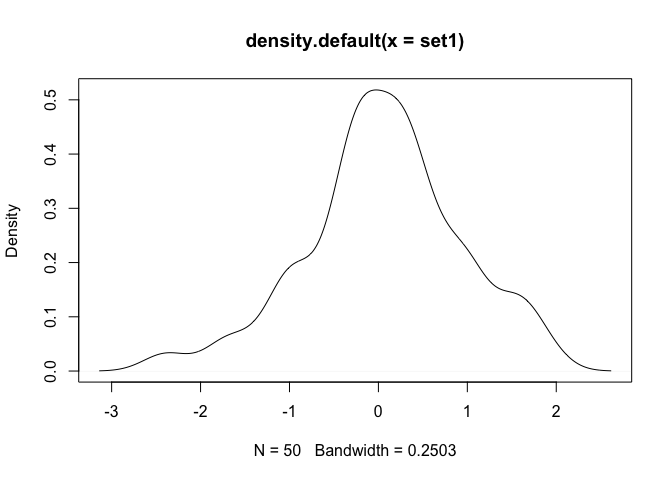
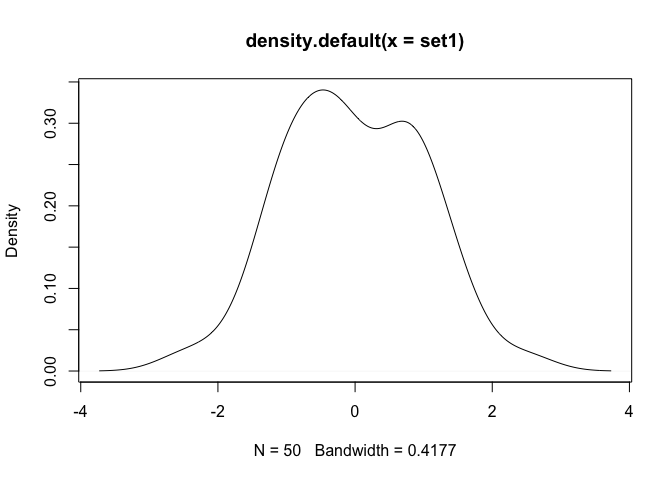
made sure p-values out of range of the table are described in documentation

diff --git a/README.md b/README.md
@@ -59,13 +59,13 @@ shapiro.test (set1)
 #>  Shapiro-Wilk normality test
 #> 
 #> data:  set1
-#> W = 0.98187, p-value = 0.6331
+#> W = 0.98753, p-value = 0.8723
 sw_test (set1)
 #> 
 #>  Shapiro-Wilk Test of Normality
 #> 
 #> data:  set1
-#> W = 0.97969, p-value = 0.7071
+#> W = 0.98601, p-value = 0.9168
 plot(density (set1))
 ```
 
@@ -81,13 +81,13 @@ shapiro.test (set2)
 #>  Shapiro-Wilk normality test
 #> 
 #> data:  set2
-#> W = 0.80147, p-value = 9.482e-07
+#> W = 0.78751, p-value = 4.573e-07
 sw_test (set2)
 #> 
 #>  Shapiro-Wilk Test of Normality
 #> 
 #> data:  set2
-#> W = 0.79912, p-value = 0.93
+#> W = 0.78452, p-value = 0.93
 plot(density (set2))
 ```
 
